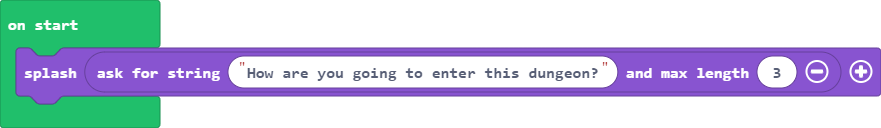
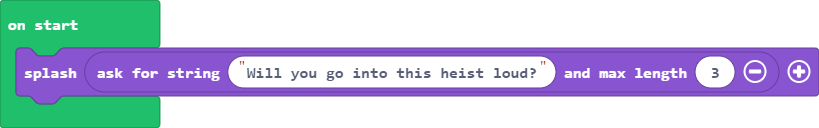
Update main.blocks, main.ts

diff --git a/main.ts b/main.ts
@@ -1,1 +1,1 @@
-game.splash(game.askForString("How are you going to enter this dungeon?", 3))
+game.splash(game.askForString("Will you go into this heist loud?", 3))
